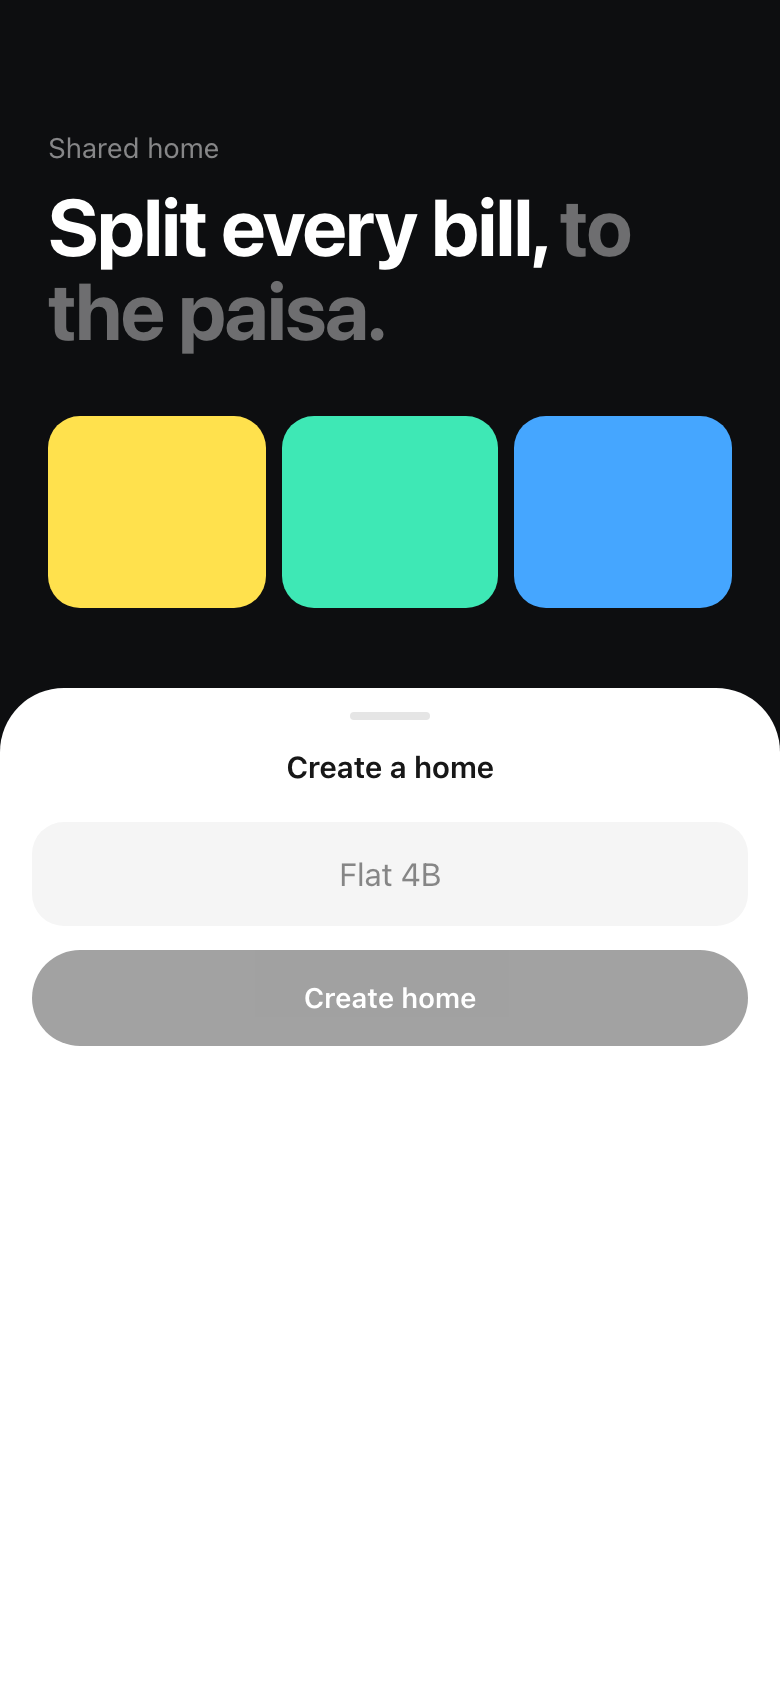
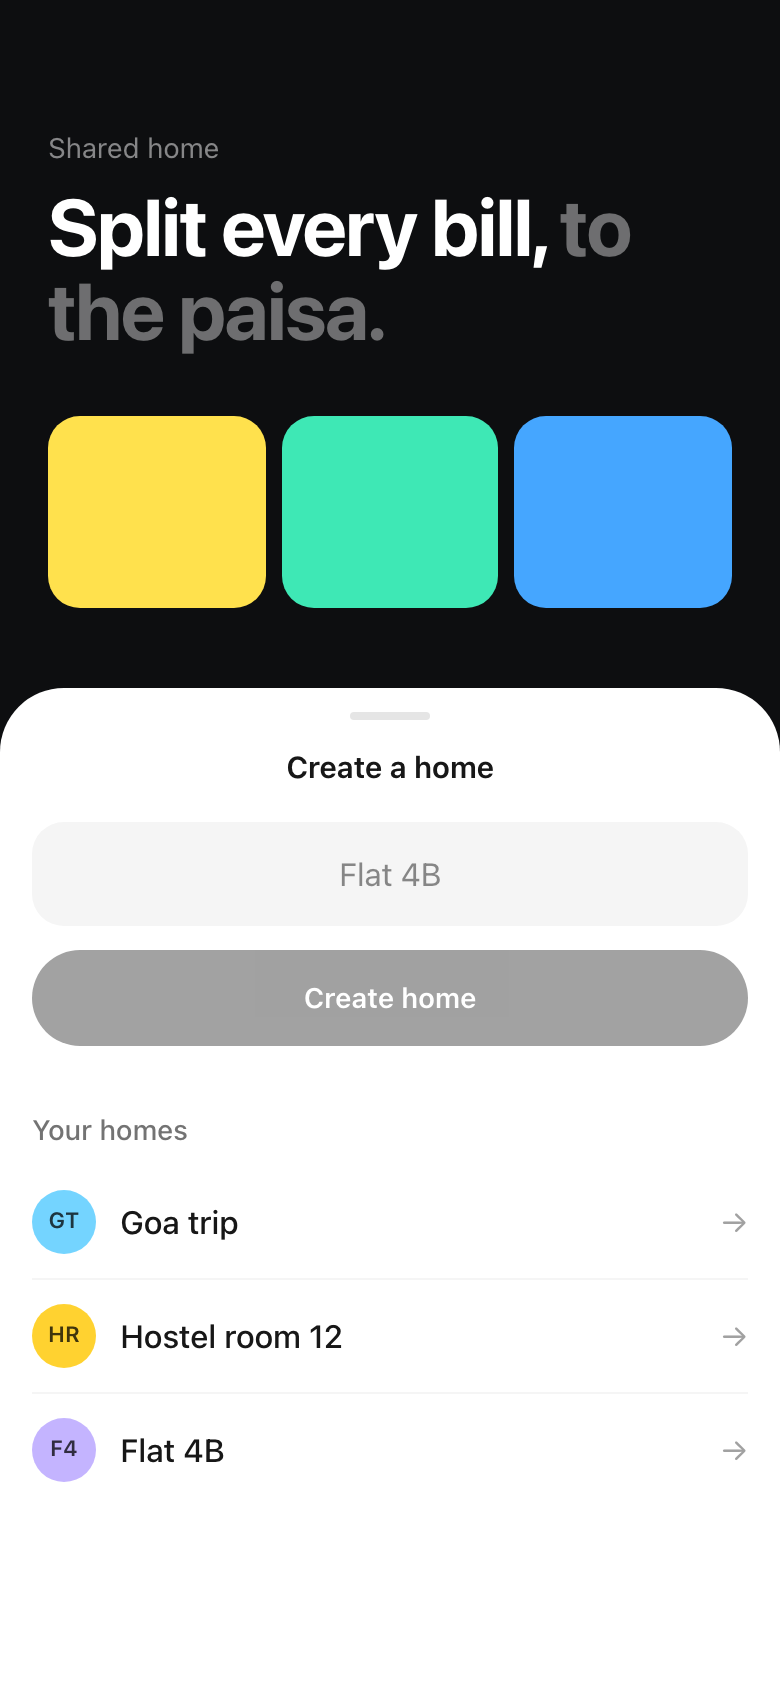
fix(web): remember every home, not just the last one
The start page only stored one home in localStorage, so creating a new
home hid the old one. It now keeps a list (last opened first) and shows
it under "Your homes". A home saved by the old version is still picked up.

diff --git a/web/src/features/home/CreateHomeForm.tsx b/web/src/features/home/CreateHomeForm.tsx
@@ -1,14 +1,12 @@
 import { useMutation } from '@tanstack/react-query'
-import { Link, useNavigate } from '@tanstack/react-router'
+import { useNavigate } from '@tanstack/react-router'
 import { type FormEvent, useState } from 'react'
 import { api } from '../../api/client'
 import { Button } from '../../components/ui/Button'
-import { loadLastHome } from '../../lib/last-home'
 
 export function CreateHomeForm() {
   const [name, setName] = useState('')
   const navigate = useNavigate()
-  const lastHome = loadLastHome()
   const create = useMutation({
     mutationFn: api.createHome,
     onSuccess: (home) => navigate({ to: '/homes/$homeId', params: { homeId: home.id } }),
@@ -42,15 +40,6 @@ export function CreateHomeForm() {
       >
         {create.isPending ? 'Creating…' : 'Create home'}
       </Button>
-      {lastHome && (
-        <Link
-          to="/homes/$homeId"
-          params={{ homeId: lastHome.id }}
-          className="mt-2 text-center text-sm font-medium text-neutral-500 hover:text-neutral-900"
-        >
-          Continue to {lastHome.name} →
-        </Link>
-      )}
     </form>
   )
 }

diff --git a/web/src/features/home/SavedHomes.tsx b/web/src/features/home/SavedHomes.tsx
@@ -1,0 +1,32 @@
+import { Link } from '@tanstack/react-router'
+import { Avatar } from '../../components/ui/Avatar'
+import { loadHomes } from '../../lib/saved-homes'
+
+/** Every home opened in this browser, so creating a new one never hides the old ones. */
+export function SavedHomes() {
+  const homes = loadHomes()
+  if (homes.length === 0) return null
+
+  return (
+    <section className="mt-8">
+      <h2 className="text-sm font-medium text-neutral-500">Your homes</h2>
+      <ul className="mt-2 divide-y divide-neutral-100">
+        {homes.map((home) => (
+          <li key={home.id}>
+            <Link
+              to="/homes/$homeId"
+              params={{ homeId: home.id }}
+              className="flex items-center gap-3 py-3 hover:opacity-70"
+            >
+              <Avatar name={home.name} small />
+              <span className="flex-1 truncate font-medium">{home.name}</span>
+              <span aria-hidden="true" className="text-neutral-400">
+                →
+              </span>
+            </Link>
+          </li>
+        ))}
+      </ul>
+    </section>
+  )
+}

diff --git a/web/src/lib/saved-homes.ts b/web/src/lib/saved-homes.ts
@@ -1,0 +1,37 @@
+import type { Home } from '../api/types'
+
+const KEY = 'bill-splitter:homes'
+const OLD_KEY = 'bill-splitter:last-home'
+const MAX = 20
+
+const isHome = (value: unknown): value is Home =>
+  !!value &&
+  typeof value === 'object' &&
+  'id' in value &&
+  typeof value.id === 'string' &&
+  'name' in value &&
+  typeof value.name === 'string'
+
+function read(key: string): unknown {
+  try {
+    return JSON.parse(localStorage.getItem(key) ?? 'null')
+  } catch {
+    return null
+  }
+}
+
+/** Homes opened in this browser, last opened first. Storage can be blocked, so never throw. */
+export function loadHomes(): Home[] {
+  const list = read(KEY)
+  if (Array.isArray(list)) return list.filter(isHome)
+  const old = read(OLD_KEY)
+  return isHome(old) ? [old] : []
+}
+
+/** Moves the home to the top of the list (adds it if new). */
+export function saveHome({ id, name }: Home) {
+  const homes = [{ id, name }, ...loadHomes().filter((h) => h.id !== id)].slice(0, MAX)
+  try {
+    localStorage.setItem(KEY, JSON.stringify(homes))
+  } catch {}
+}

diff --git a/web/src/routes/homes.$homeId.tsx b/web/src/routes/homes.$homeId.tsx
@@ -11,7 +11,7 @@ import { MembersCard } from '../features/home/MembersCard'
 import { PaidScreen } from '../features/payments/PaidScreen'
 import type { PaidInfo } from '../features/payments/ShareRow'
 import { isTemporary } from '../lib/http'
-import { saveLastHome } from '../lib/last-home'
+import { saveHome } from '../lib/saved-homes'
 
 export const Route = createFileRoute('/homes/$homeId')({ component: HomePage })
 
@@ -24,7 +24,7 @@ function HomePage() {
   const closePaid = useCallback(() => setPaid(null), [])
 
   useEffect(() => {
-    if (home.data) saveLastHome(home.data)
+    if (home.data) saveHome(home.data)
   }, [home.data])
 
   if (home.isPending) {

diff --git a/web/src/routes/index.tsx b/web/src/routes/index.tsx
@@ -1,6 +1,7 @@
 import { createFileRoute } from '@tanstack/react-router'
 import { PhoneShell, WhitePanel } from '../components/ui/PhoneShell'
 import { CreateHomeForm } from '../features/home/CreateHomeForm'
+import { SavedHomes } from '../features/home/SavedHomes'
 
 export const Route = createFileRoute('/')({ component: StartPage })
 
@@ -21,6 +22,7 @@ function StartPage() {
       </header>
       <WhitePanel title="Create a home">
         <CreateHomeForm />
+        <SavedHomes />
       </WhitePanel>
     </PhoneShell>
   )
